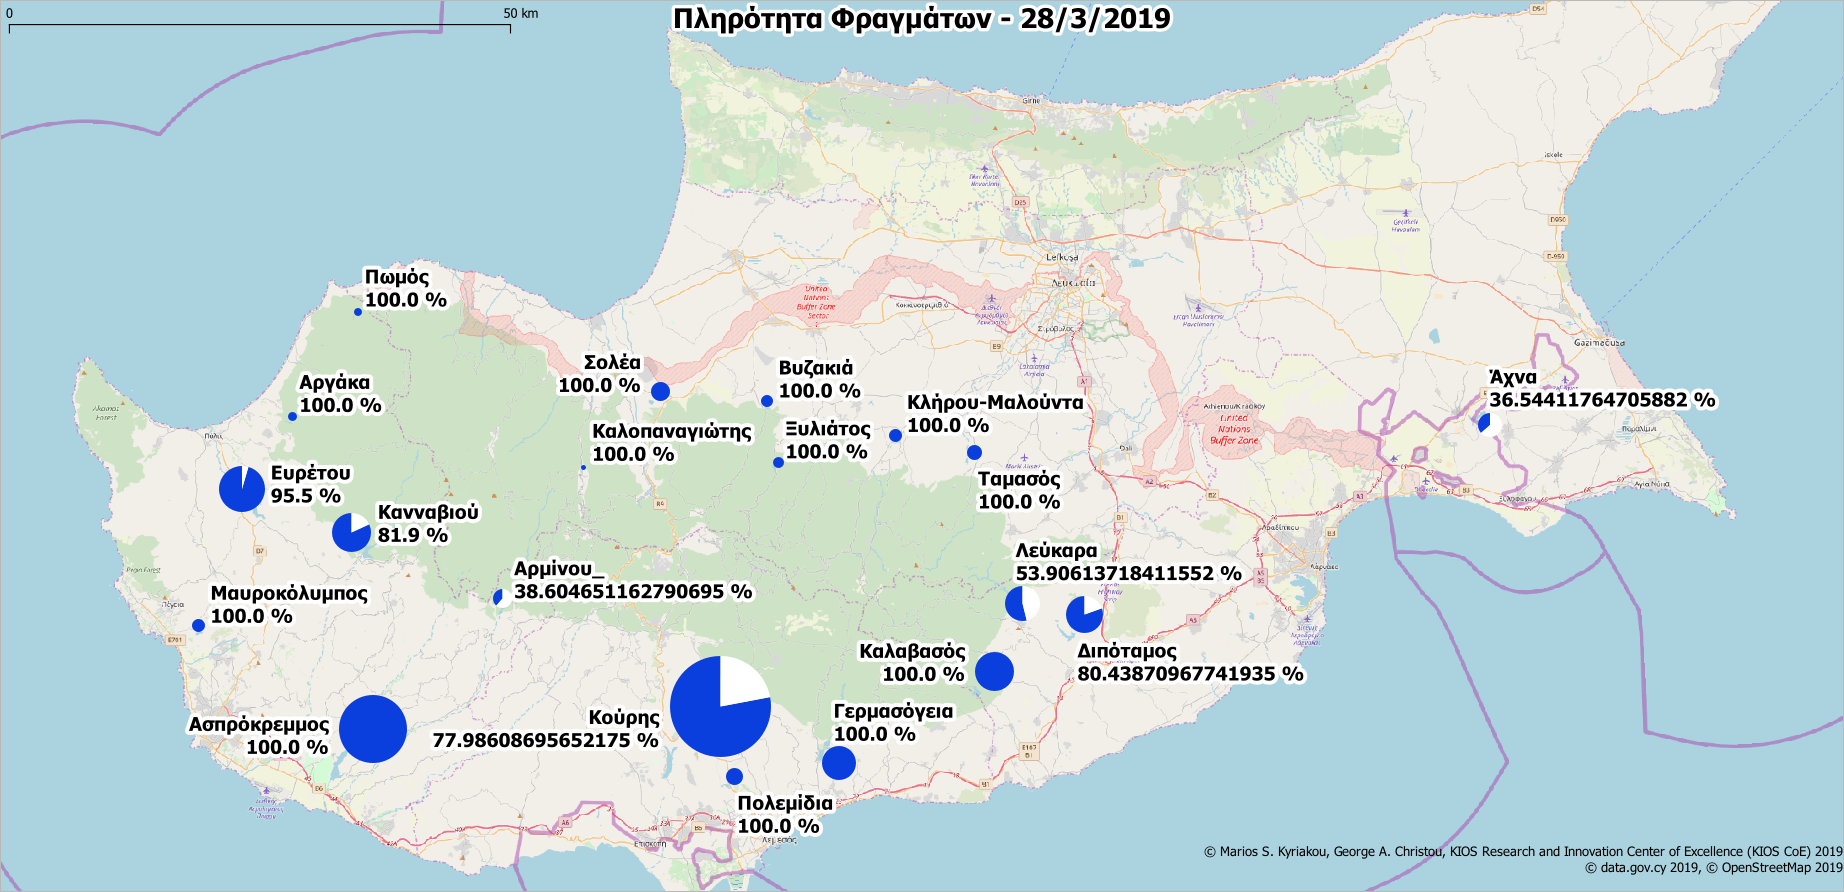
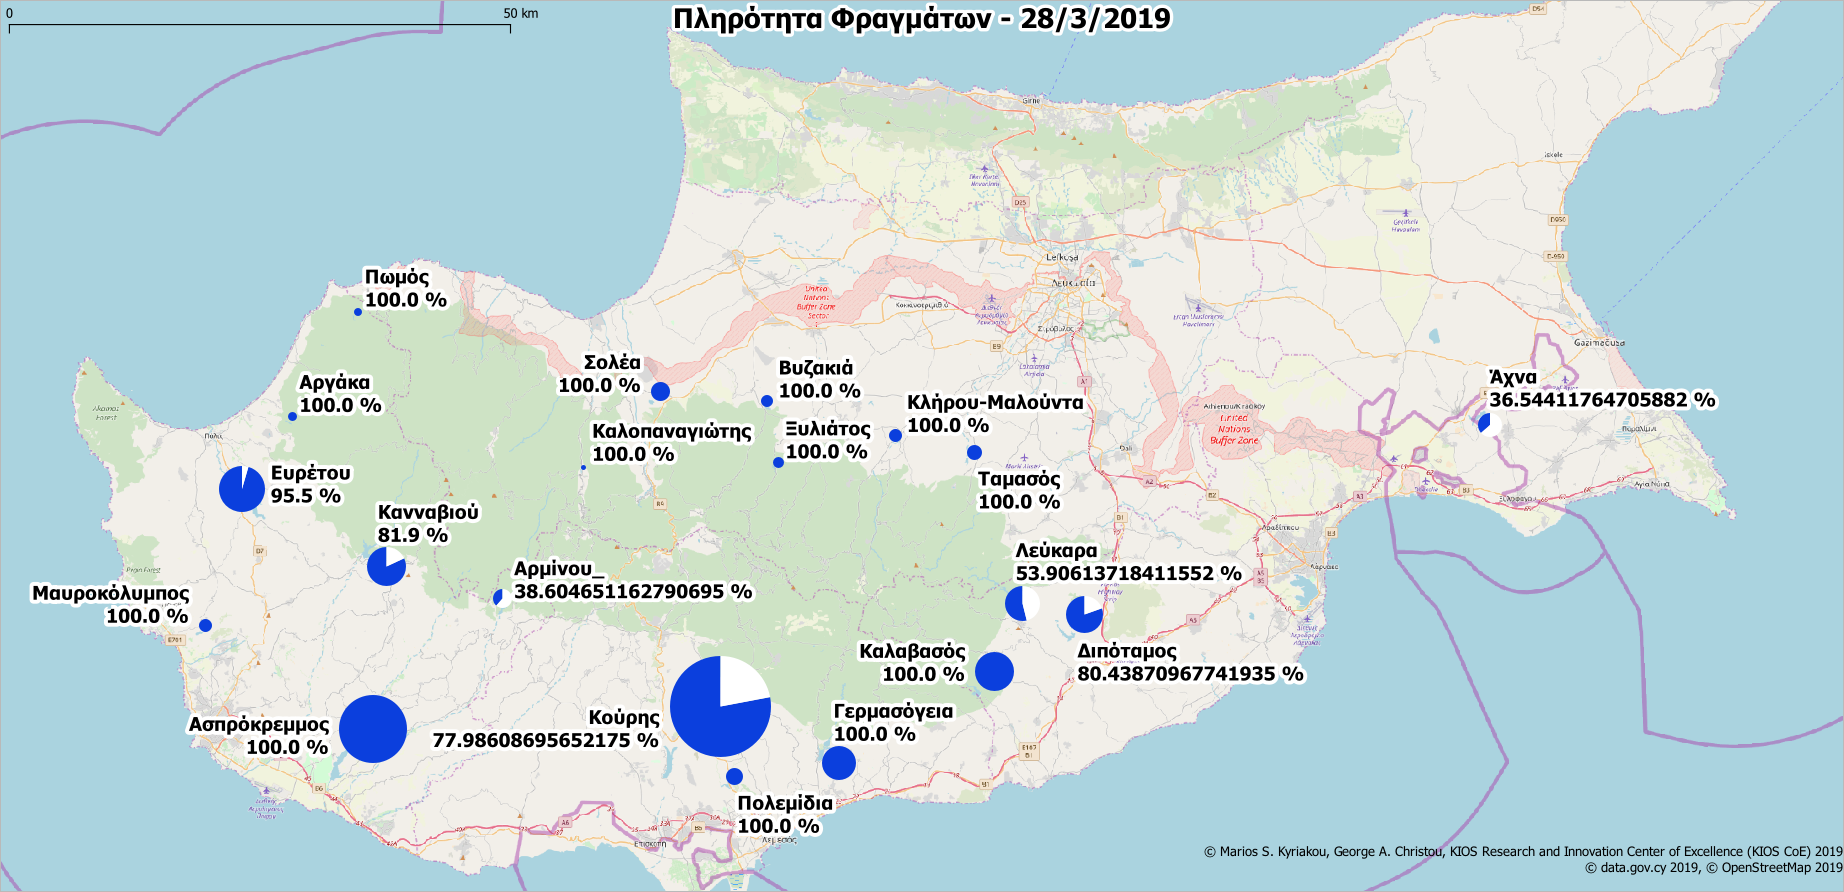
update

Changed region(s): [[0.0, 0.5751, 0.2164, 0.7265]]

diff --git a/dams.html b/dams.html
@@ -6,7 +6,7 @@
     background:#dddddd;
 }
 }
-</style><p><b>Ημερομηνία: 29-3-2019<p><font color="#0000FF">Η συνολική πληρότητα στα φράγματα είναι 84.57%</font>.<p>Υπάρχουν συνολικά <font color="#0000FF">14</font> φράγματα με πληρότητα <font color="#0000FF">100%</font>.<p>Υπάρχουν <font color="#0000FF">19</font> φράγματα με πληρότητα πάνω από <font color="#0000FF">50%</font>.</b><p><b>Υπάρχουν δεδομένα για 21 φράγματα. Συνολικά υπάρχουν 108 φράγματα. <b><p><p><p>* million cubic metres<table width="444">
+</style><p><b>Ημερομηνία: 29/3/2019<p><font color="#0000FF">Η συνολική πληρότητα στα φράγματα είναι 84.71%</font>.<p>Υπάρχουν συνολικά <font color="#0000FF">14</font> φράγματα με πληρότητα <font color="#0000FF">100%</font>.<p>Υπάρχουν <font color="#0000FF">19</font> φράγματα με πληρότητα πάνω από <font color="#0000FF">50%</font>.</b><p><b>Υπάρχουν δεδομένα για 21 φράγματα. Συνολικά υπάρχουν 108 φράγματα. <b><p><p><p>* million cubic metres<table width="444">
 <tbody>
 <tr>
 <th width="2"><b></b></th>
@@ -15,7 +15,7 @@
 <th width="60"><b>Capacity (MCM)</b></th>
 <th width="60"><b>CurrentStorage (MCM)</b></th>
 <th width="60"><b>CurrentStorage (%)</b></th>
-</tr><tr><td>1</td><td>28/3/2019</td><td>Κούρης</td><td>115.0</td><td>89.259</td><td>77.6</td></tr><tr><tr><td>2</td><td>28/3/2019</td><td>Ασπρόκρεμμος</td><td>52.375</td><td>52.375</td><td>100.0</td></tr><tr><tr><td>3</td><td>28/3/2019</td><td>Ευρέτου</td><td>24.0</td><td>22.912</td><td>95.5</td></tr><tr><tr><td>4</td><td>28/3/2019</td><td>Κανναβιού</td><td>17.168</td><td>14.054</td><td>81.9</td></tr><tr><tr><td>5</td><td>28/3/2019</td><td>Καλαβασός</td><td>17.1</td><td>17.1</td><td>100.0</td></tr><tr><tr><td>6</td><td>28/3/2019</td><td>Διπόταμος</td><td>15.5</td><td>12.416</td><td>80.1</td></tr><tr><tr><td>7</td><td>28/3/2019</td><td>Λεύκαρα</td><td>13.85</td><td>7.453</td><td>53.8</td></tr><tr><tr><td>8</td><td>28/3/2019</td><td>Γερμασόγεια</td><td>13.5</td><td>13.5</td><td>100.0</td></tr><tr><tr><td>9</td><td>28/3/2019</td><td>Άχνα</td><td>6.8</td><td>2.497</td><td>36.7</td></tr><tr><tr><td>10</td><td>28/3/2019</td><td>Σολέα</td><td>4.454</td><td>4.454</td><td>100.0</td></tr><tr><tr><td>11</td><td>28/3/2019</td><td>Αρμίνου </td><td>4.3</td><td>1.733</td><td>40.3</td></tr><tr><tr><td>12</td><td>28/3/2019</td><td>Πολεμίδια</td><td>3.4</td><td>3.4</td><td>100.0</td></tr><tr><tr><td>13</td><td>28/3/2019</td><td>Ταμασός</td><td>2.8</td><td>2.8</td><td>100.0</td></tr><tr><tr><td>14</td><td>28/3/2019</td><td>Μαυροκόλυμπος</td><td>2.18</td><td>2.18</td><td>100.0</td></tr><tr><tr><td>15</td><td>28/3/2019</td><td>Κλήρου-Μαλούντα</td><td>2.0</td><td>2.0</td><td>100.0</td></tr><tr><tr><td>16</td><td>28/3/2019</td><td>Βυζακιά</td><td>1.69</td><td>1.69</td><td>100.0</td></tr><tr><tr><td>17</td><td>28/3/2019</td><td>Ξυλιάτος</td><td>1.43</td><td>1.43</td><td>100.0</td></tr><tr><tr><td>18</td><td>28/3/2019</td><td>Αργάκα</td><td>0.99</td><td>0.99</td><td>100.0</td></tr><tr><tr><td>19</td><td>28/3/2019</td><td>Πωμός</td><td>0.86</td><td>0.86</td><td>100.0</td></tr><tr><tr><td>20</td><td>28/3/2019</td><td>Καλοπαναγιώτης</td><td>0.363</td><td>0.363</td><td>100.0</td></tr><tr><tr><td>21</td><td>28/3/2019</td><td>Αγία Μαρίνα</td><td>0.298</td><td>0.298</td><td>100.0</td></tr><tr>
+</tr><tr><td>1</td><td>29/3/2019</td><td>Κούρης</td><td>115.0</td><td>89.684</td><td>77.9860869565</td></tr><tr><tr><td>2</td><td>28/3/2019</td><td>Ασπρόκρεμμος</td><td>52.375</td><td>52.375</td><td>100.0</td></tr><tr><tr><td>3</td><td>28/3/2019</td><td>Ευρέτου</td><td>24.0</td><td>22.912</td><td>95.5</td></tr><tr><tr><td>4</td><td>28/3/2019</td><td>Κανναβιού</td><td>17.168</td><td>14.054</td><td>81.9</td></tr><tr><tr><td>5</td><td>29/3/2019</td><td>Καλαβασός</td><td>17.1</td><td>17.1</td><td>100.0</td></tr><tr><tr><td>6</td><td>29/3/2019</td><td>Διπόταμος</td><td>15.5</td><td>12.468</td><td>80.4387096774</td></tr><tr><tr><td>7</td><td>29/3/2019</td><td>Λεύκαρα</td><td>13.85</td><td>7.466</td><td>53.9061371841</td></tr><tr><tr><td>8</td><td>29/3/2019</td><td>Γερμασόγεια</td><td>13.5</td><td>13.5</td><td>100.0</td></tr><tr><tr><td>9</td><td>29/3/2019</td><td>Άχνα</td><td>6.8</td><td>2.485</td><td>36.5441176471</td></tr><tr><tr><td>10</td><td>28/3/2019</td><td>Σολέα</td><td>4.454</td><td>4.454</td><td>100.0</td></tr><tr><tr><td>11</td><td>29/3/2019</td><td>Αρμίνου_</td><td>4.3</td><td>1.66</td><td>38.6046511628</td></tr><tr><tr><td>12</td><td>29/3/2019</td><td>Πολεμίδια</td><td>3.4</td><td>3.4</td><td>100.0</td></tr><tr><tr><td>13</td><td>28/3/2019</td><td>Ταμασός</td><td>2.8</td><td>2.8</td><td>100.0</td></tr><tr><tr><td>14</td><td>28/3/2019</td><td>Μαυροκόλυμπος</td><td>2.18</td><td>2.18</td><td>100.0</td></tr><tr><tr><td>15</td><td>28/3/2019</td><td>Κλήρου-Μαλούντα</td><td>2.0</td><td>2.0</td><td>100.0</td></tr><tr><tr><td>16</td><td>28/3/2019</td><td>Βυζακιά</td><td>1.69</td><td>1.69</td><td>100.0</td></tr><tr><tr><td>17</td><td>28/3/2019</td><td>Ξυλιάτος</td><td>1.43</td><td>1.43</td><td>100.0</td></tr><tr><tr><td>18</td><td>28/3/2019</td><td>Αργάκα</td><td>0.99</td><td>0.99</td><td>100.0</td></tr><tr><tr><td>19</td><td>28/3/2019</td><td>Πωμός</td><td>0.86</td><td>0.86</td><td>100.0</td></tr><tr><tr><td>20</td><td>28/3/2019</td><td>Καλοπαναγιώτης</td><td>0.363</td><td>0.363</td><td>100.0</td></tr><tr><tr><td>21</td><td>28/3/2019</td><td>Αγία Μαρίνα</td><td>0.298</td><td>0.298</td><td>100.0</td></tr><tr>
 </tr>
 <tr>
 <td></td>
